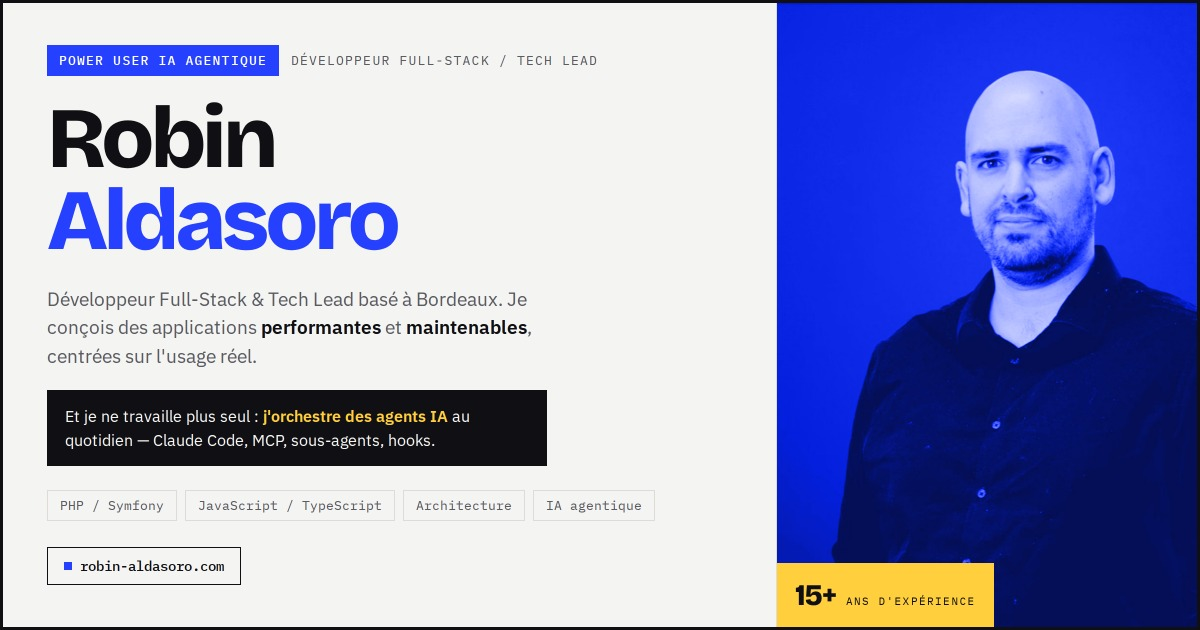
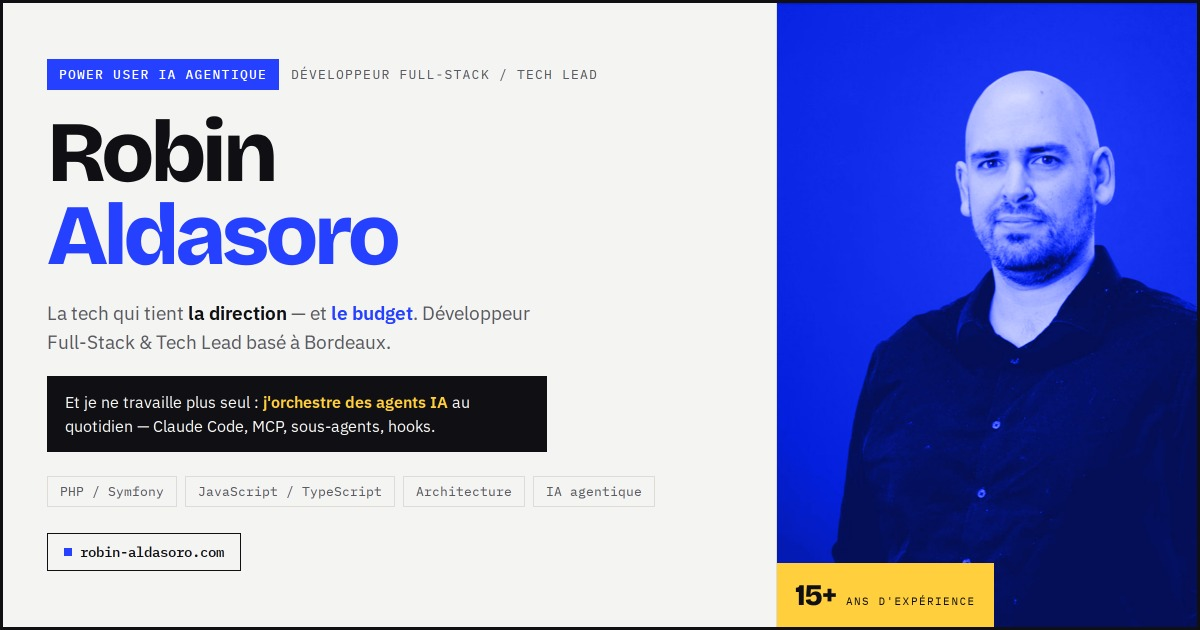
feat(copy): swap hero headline from timing to direction/budget
"— et dans les temps" leaned on delivery timing; "— et le budget" is
the framing that better reflects how the value proposition should
read. Updated the hero H1 and regenerated og-img.jpg to match.

diff --git a/index.html b/index.html
@@ -140,7 +140,7 @@
             id="hero-title"
             class="font-display font-extrabold text-[2.5rem] sm:text-6xl leading-[.96] tracking-tightest text-balance"
           >
-            La tech qui avance <span class="hl-amber">dans la bonne direction</span> <span class="text-blue">— et dans les temps.</span>
+            La tech qui tient <span class="hl-amber">la direction</span> <span class="text-blue">— et le budget.</span>
           </h1>
 
           <p class="text-base md:text-lg leading-relaxed text-ink-2 max-w-[54ch] mt-7">
